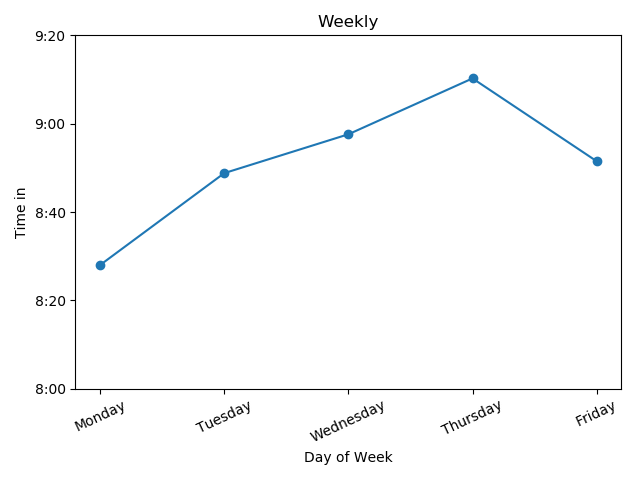
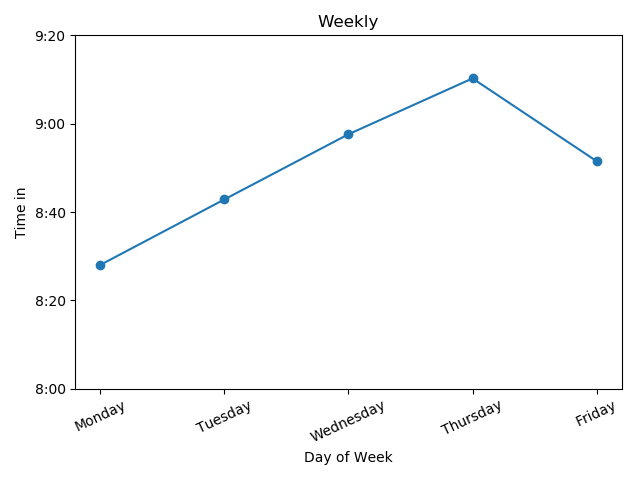
daily update 2/13

diff --git a/pjeej.py b/pjeej.py
@@ -27,8 +27,8 @@ with open("timein.csv","a",newline="") as csvfile:
 	#writer.writerow(["2/7/2018","Wednesday","8:58", "33"])
 	#writer.writerow(["2/8/2018","Thursday","9:10", "27"])
 	#writer.writerow(["2/9/2018","Friday","N/A", "27"])
-#df = pd.read_csv("timein.csv")
-#df = df.to_html("df.html", index = False)
+	#writer.writerow(["2/13/2018","Tuesday","8:13", "27"]) #[9]
+
 # [1] according to him, left at 8:30 night before 1/12/2018
 # [2] came in before I did 1/15
 # [3] did not check temperature until 9:50 1/15
@@ -37,3 +37,4 @@ with open("timein.csv","a",newline="") as csvfile:
 # [6] did not check temperature 1/24
 # [7] according to Elias, stayed late for BMH-171 9:30
 # [8] stayed late for BMH-171 (after 7:00 PM)
+# [9] came in before I did after two day absence plus encounter on Thursday

diff --git a/k.py b/k.py
@@ -13,3 +13,5 @@ with open("checkin.csv","a",newline="") as csvfile:
 	#writer.writerow(["2/7/18","Wednesday","8:17", "N"])
 	#writer.writerow(["2/8/18","Thursday","8:59", "N"])
 	#writer.writerow(["2/9/18","Friday","N/A", "N/A"])
+	writer.writerow(["2/12/18","Monday","N/A", "N"])
+	writer.writerow(["2/13/18","Tuesday","9:38", "N"])
